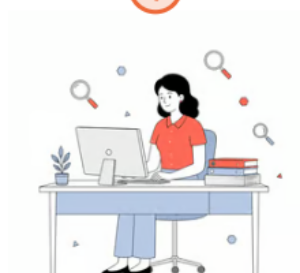
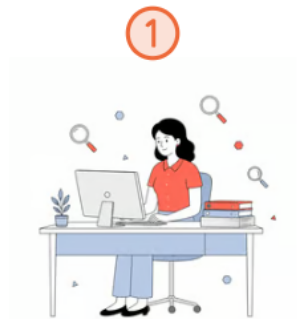
Matricula: trilha de passos espalhada e sem cortar imagens
- Recorta as ilustracoes com as figuras inteiras; casa o aspecto do
  thumbnail com o recorte (sem corte).
- Espalha as linhas no espaco vertical do sidebar (cards maiores).

diff --git a/inicio.html b/inicio.html
@@ -159,12 +159,12 @@
     .wz-warn svg { width: 26px; height: 26px; color: #9AA1AB; flex-shrink: 0; }
     .wz-warn span { font-size: 13px; color: #8A94A6; line-height: 1.45; text-align: left; }
 
-    .wz-steps { width: 392px; flex-shrink: 0; background: #FAFBFC; border-left: 1px solid #EDEFF3; padding: 30px 26px; display: grid; grid-template-columns: 1fr 1fr; gap: 26px 22px; align-content: start; }
+    .wz-steps { width: 392px; flex-shrink: 0; background: #FAFBFC; border-left: 1px solid #EDEFF3; padding: 30px 26px; display: grid; grid-template-columns: 1fr 1fr; grid-auto-rows: 1fr; gap: 20px 22px; align-content: stretch; }
     .wz-step { text-align: center; }
-    .wz-step-thumb { position: relative; border: 1.5px solid #EAEDF1; border-radius: 13px; background: #fff; aspect-ratio: 1.35 / 1; display: flex; align-items: center; justify-content: center; color: #C7CED9; overflow: hidden; }
+    .wz-step-thumb { position: relative; border: 1.5px solid #EAEDF1; border-radius: 13px; background: #fff; aspect-ratio: 226 / 240; display: flex; align-items: center; justify-content: center; color: #C7CED9; overflow: hidden; }
     .wz-step.active .wz-step-thumb { border-color: #ED6939; box-shadow: 0 0 0 3px rgba(237,105,57,.12); color: #ED6939; }
     .wz-step-thumb svg { width: 72%; height: 72%; }
-    .wz-step-img { width: 100%; height: 100%; object-fit: contain; display: block; }
+    .wz-step-img { width: 100%; height: 100%; object-fit: cover; display: block; }
     .wz-step-num { position: absolute; top: -12px; left: 50%; transform: translateX(-50%); width: 26px; height: 26px; border-radius: 50%; background: #EEF1F6; color: #9AA1AB; font-weight: 800; font-size: 13px; display: flex; align-items: center; justify-content: center; border: 3px solid #FAFBFC; }
     .wz-step.active .wz-step-num { background: #ED6939; color: #fff; }
     .wz-step-label { margin-top: 12px; font-size: 13px; color: #9AA1AB; font-weight: 600; }
